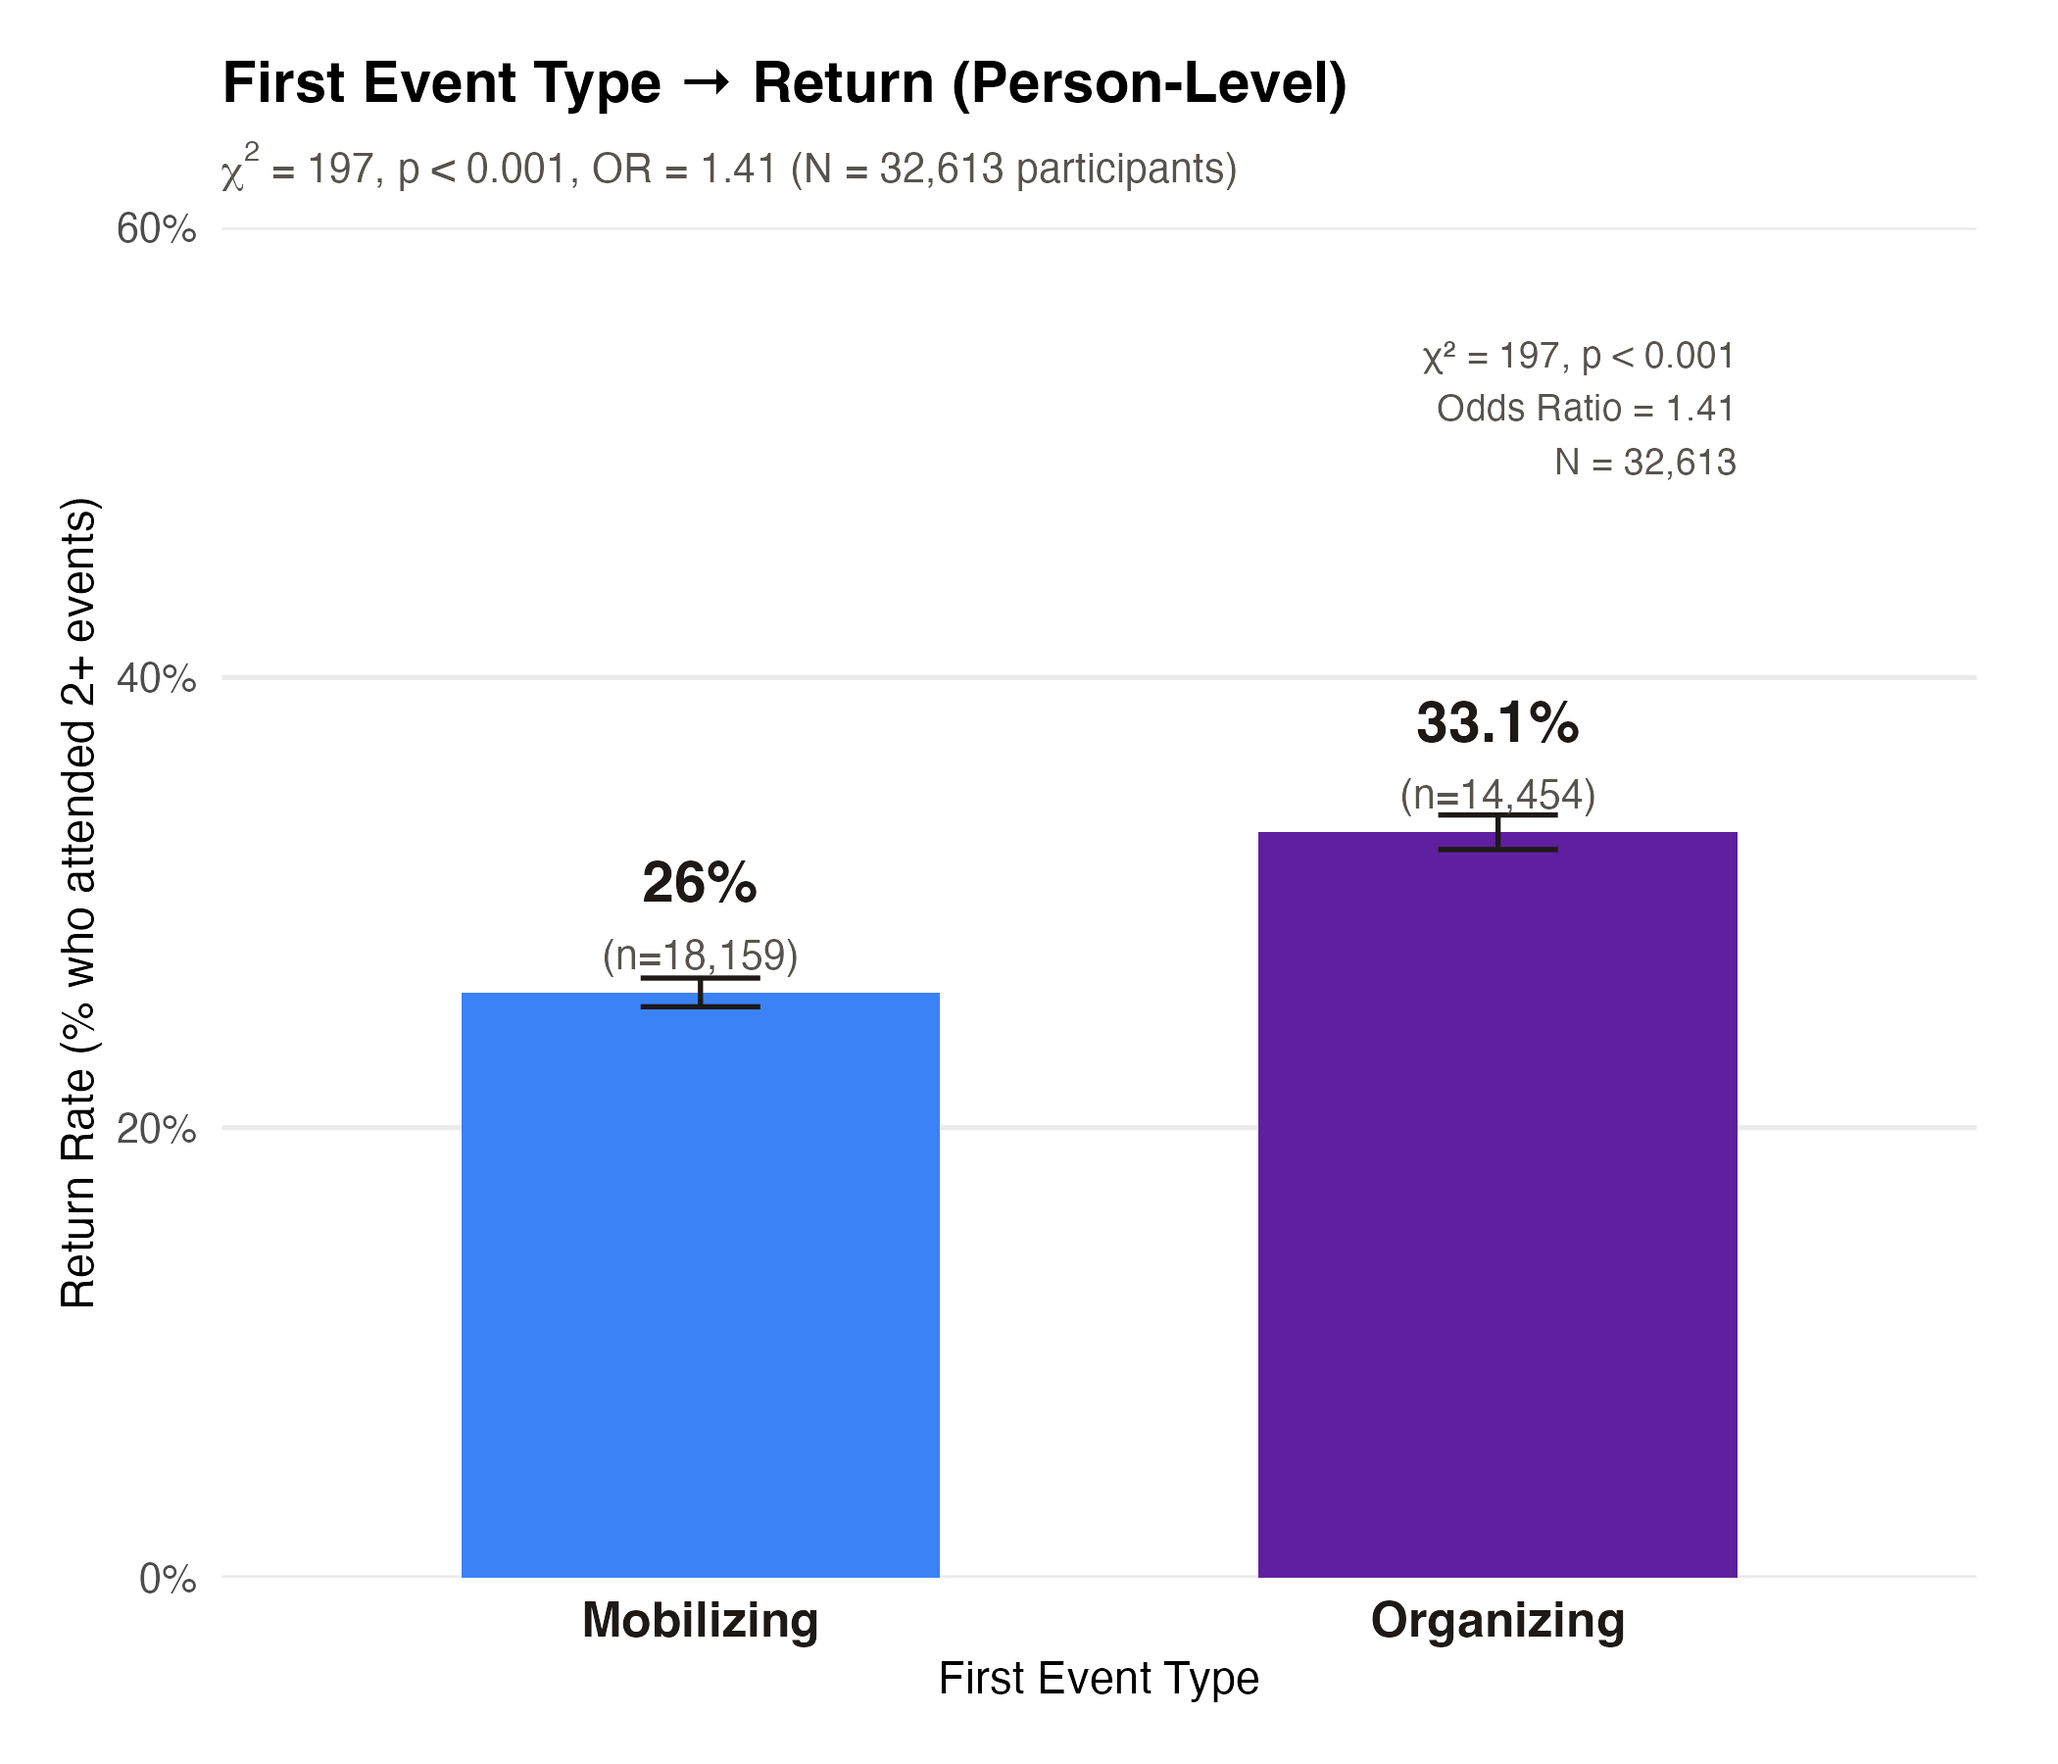
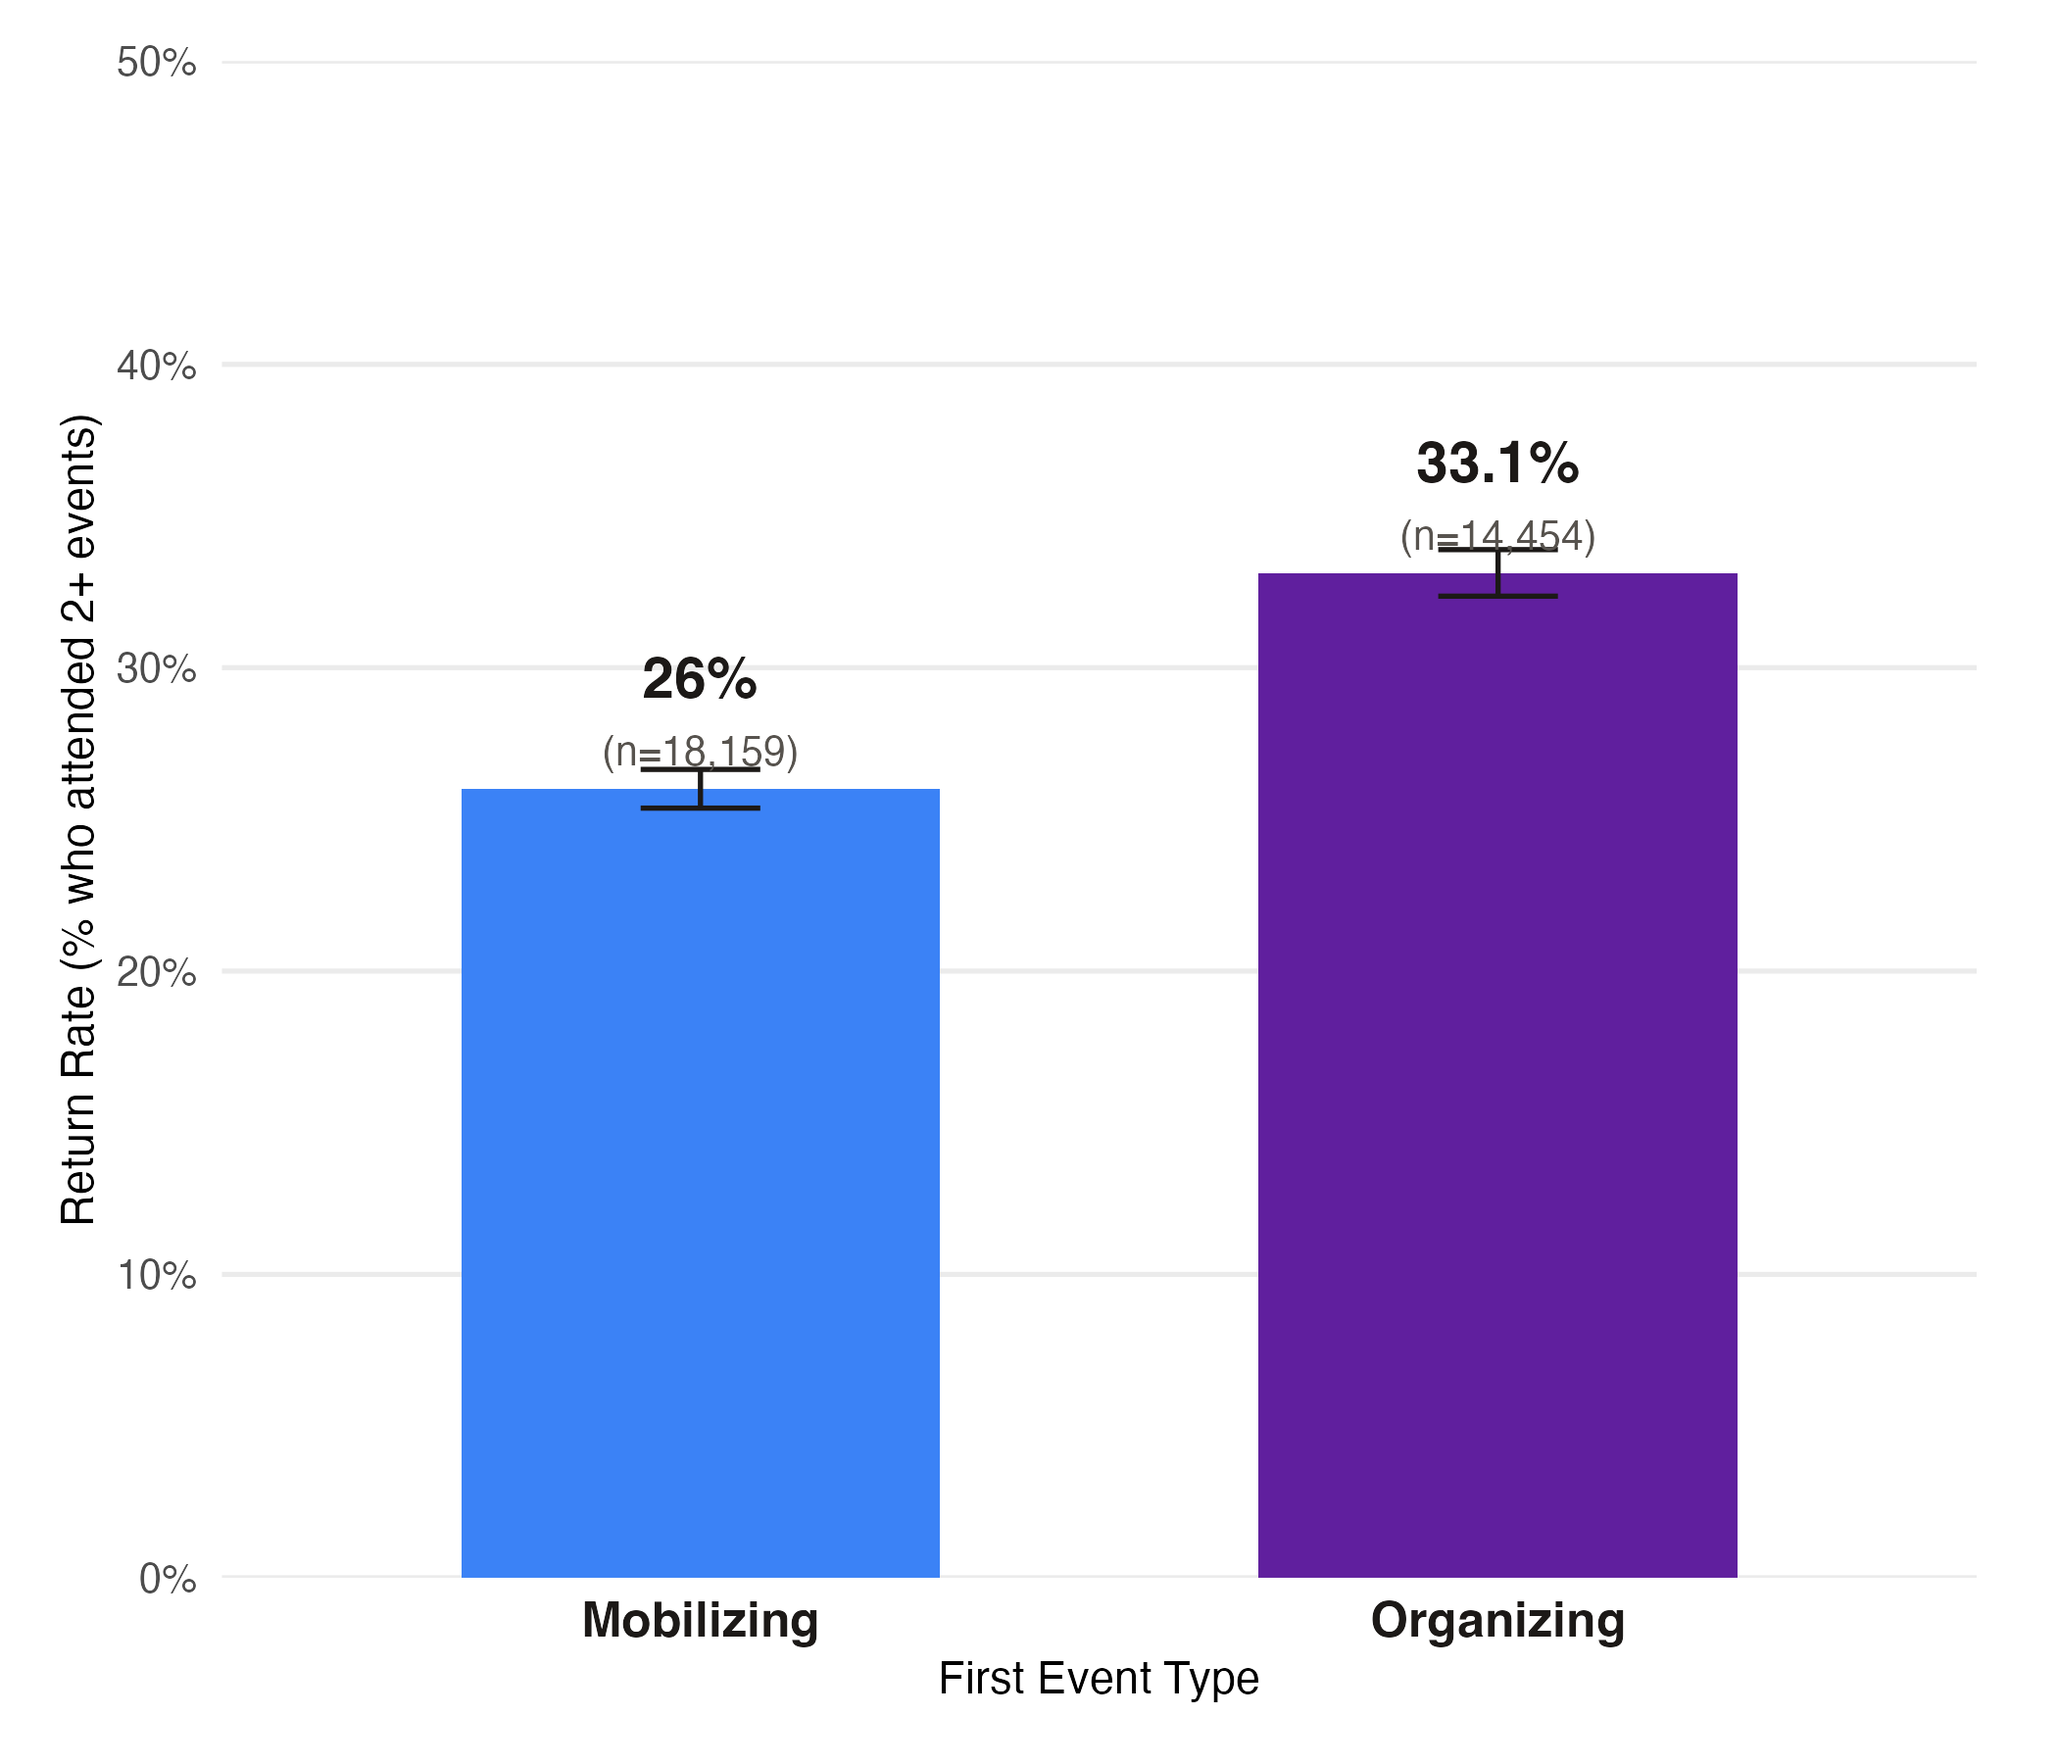
Update slides 14-15 layout, fix org name, bigger labels
- Latinx Power AZ → Desert Action AZ
- Slides 14 & 15: purple callout title at top, stats in grey below
- Slide 14: "Participants whose first event was organizing had
  41% higher odds of returning, as compared to mobilizing"
- Slide 15: "The effect was consistent across organizations
  (most points above diagonal)"
- Charts: removed title/stats (now on slides)
- Scatter: bigger "Organizing better" / "Mobilizing better" labels

🤖 Generated with [Claude Code](https://claude.com/claude-code)

diff --git a/index.html b/index.html
@@ -1039,7 +1039,7 @@
                             <div style="font-weight: 600; color: var(--text-secondary);">7%</div>
                         </div>
                         <div style="display: grid; grid-template-columns: 140px 1fr 40px; gap: 0.5rem; align-items: center; font-size: 0.85rem;">
-                            <div style="font-weight: 500; text-align: right;">Latinx Power AZ</div>
+                            <div style="font-weight: 500; text-align: right;">Desert Action AZ</div>
                             <div style="display: flex; height: 18px; border-radius: 3px; overflow: hidden;"><div style="width: 70.7%; background: #A8A29E;"></div><div style="width: 23.9%; background: #3B82F6;"></div><div style="width: 5.4%; background: var(--accent);"></div></div>
                             <div style="font-weight: 600; color: var(--text-secondary);">5%</div>
                         </div>
@@ -1105,11 +1105,14 @@
         <div class="corner corner-bl"></div>
         <div class="corner corner-br"></div>
 
-        <div class="content wide" style="text-align: center;">
-            <div style="margin: 0 auto; max-width: 580px;">
+        <div class="content wide" style="text-align: left;">
+            <div class="statement-box" style="margin-bottom: 0.75rem;">
+                <p>Participants whose first event was organizing had 41% higher odds of returning, as compared to mobilizing.</p>
+            </div>
+            <p style="font-size: 0.95rem; color: var(--text-secondary); margin-bottom: 1rem;">OR = 1.41 (95% CI: 1.34–1.48) · χ² = 197, p &lt; 0.001 · N = 32,613</p>
+            <div style="margin: 0 auto; max-width: 520px;">
                 <img src="assets/first-event-retention.png" alt="Bar chart: Organizing 33.1% vs Mobilizing 26.0% return rate" style="width: 100%; border-radius: 8px; box-shadow: 0 4px 20px rgba(0,0,0,0.12);">
             </div>
-            <p style="margin-top: 1.5rem; font-size: 1.15rem; color: var(--text);">Participants whose first event was <em>organizing</em> had <strong>41% higher odds</strong> of returning.</p>
         </div>
         <span class="slide-number">14</span>
     </section>
@@ -1123,11 +1126,14 @@
         <div class="corner corner-bl"></div>
         <div class="corner corner-br"></div>
 
-        <div class="content wide" style="text-align: center;">
-            <div style="margin: 0 auto; max-width: 520px;">
+        <div class="content wide" style="text-align: left;">
+            <div class="statement-box" style="margin-bottom: 0.75rem;">
+                <p>The effect was consistent across organizations (most points above diagonal).</p>
+            </div>
+            <p style="font-size: 0.95rem; color: var(--text-secondary); margin-bottom: 1rem;">12 of 14 organizations above diagonal · organizing first → higher return rate</p>
+            <div style="margin: 0 auto; max-width: 480px;">
                 <img src="assets/first-event-by-org.png" alt="Scatter plot: 12 of 14 orgs show organizing advantage" style="width: 100%; border-radius: 8px; box-shadow: 0 4px 20px rgba(0,0,0,0.12);">
             </div>
-            <p style="margin-top: 1.5rem; font-size: 1.15rem; color: var(--text);">Effect consistent across organizations (most points above diagonal).</p>
         </div>
         <span class="slide-number">15</span>
     </section>
